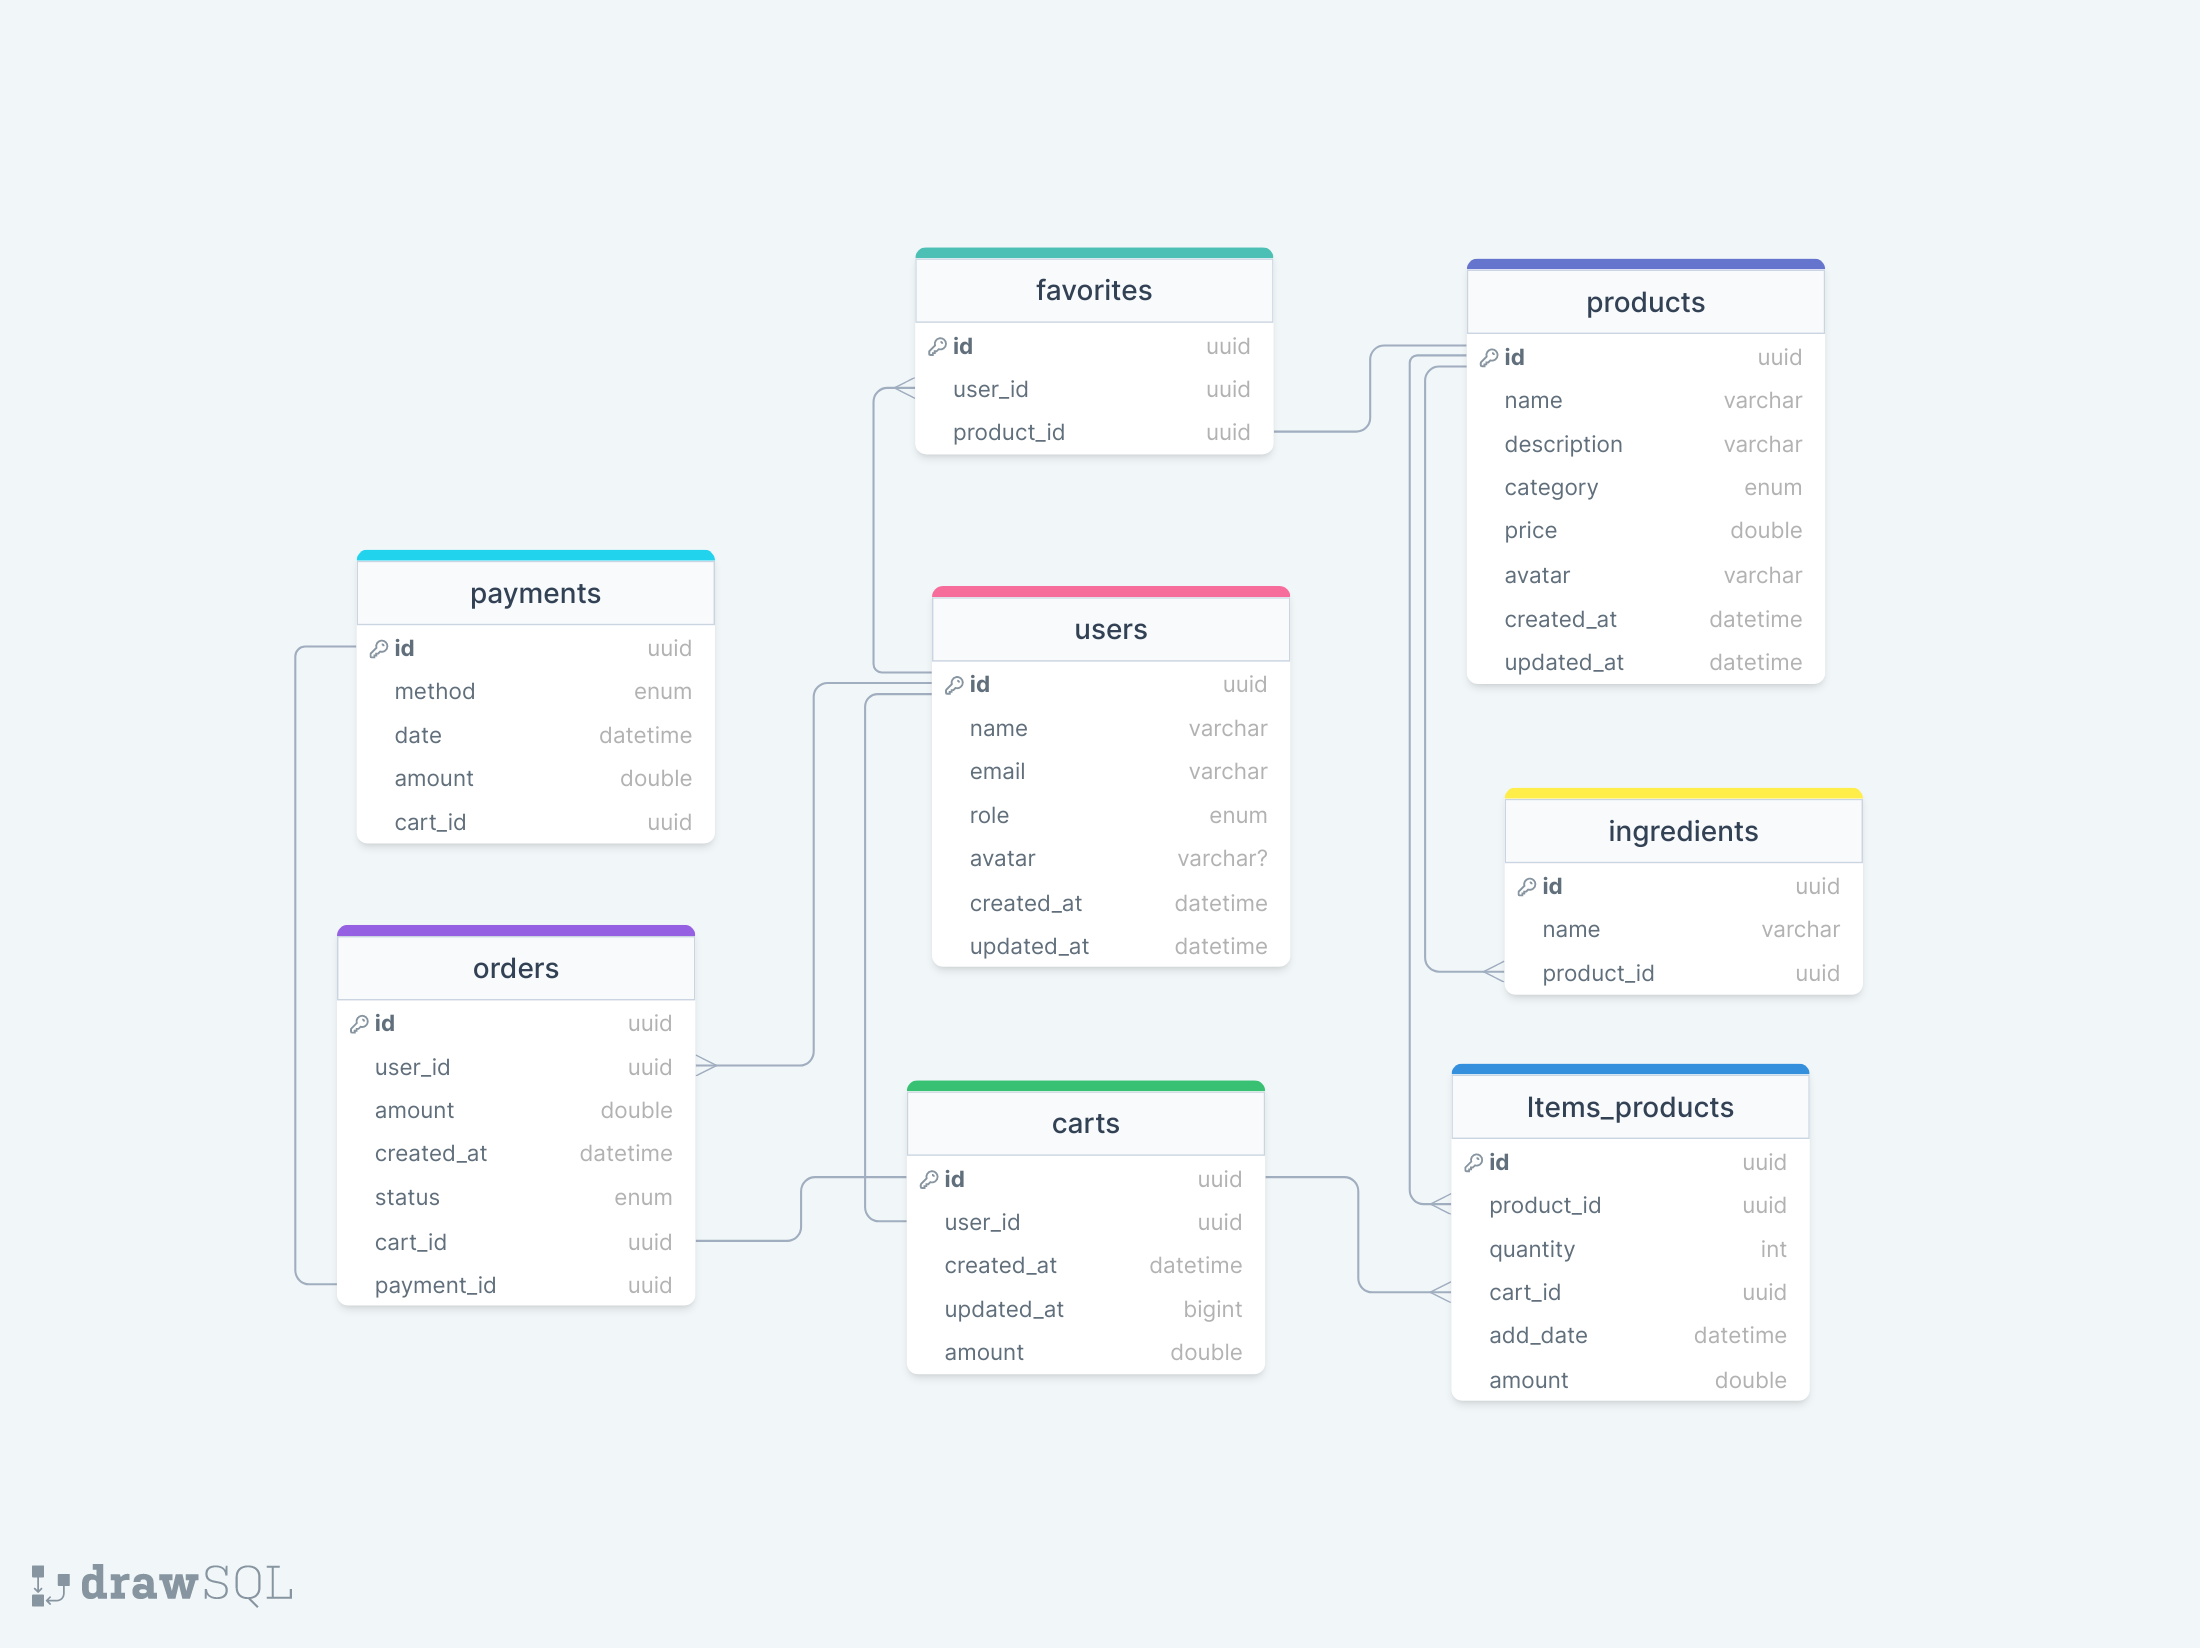
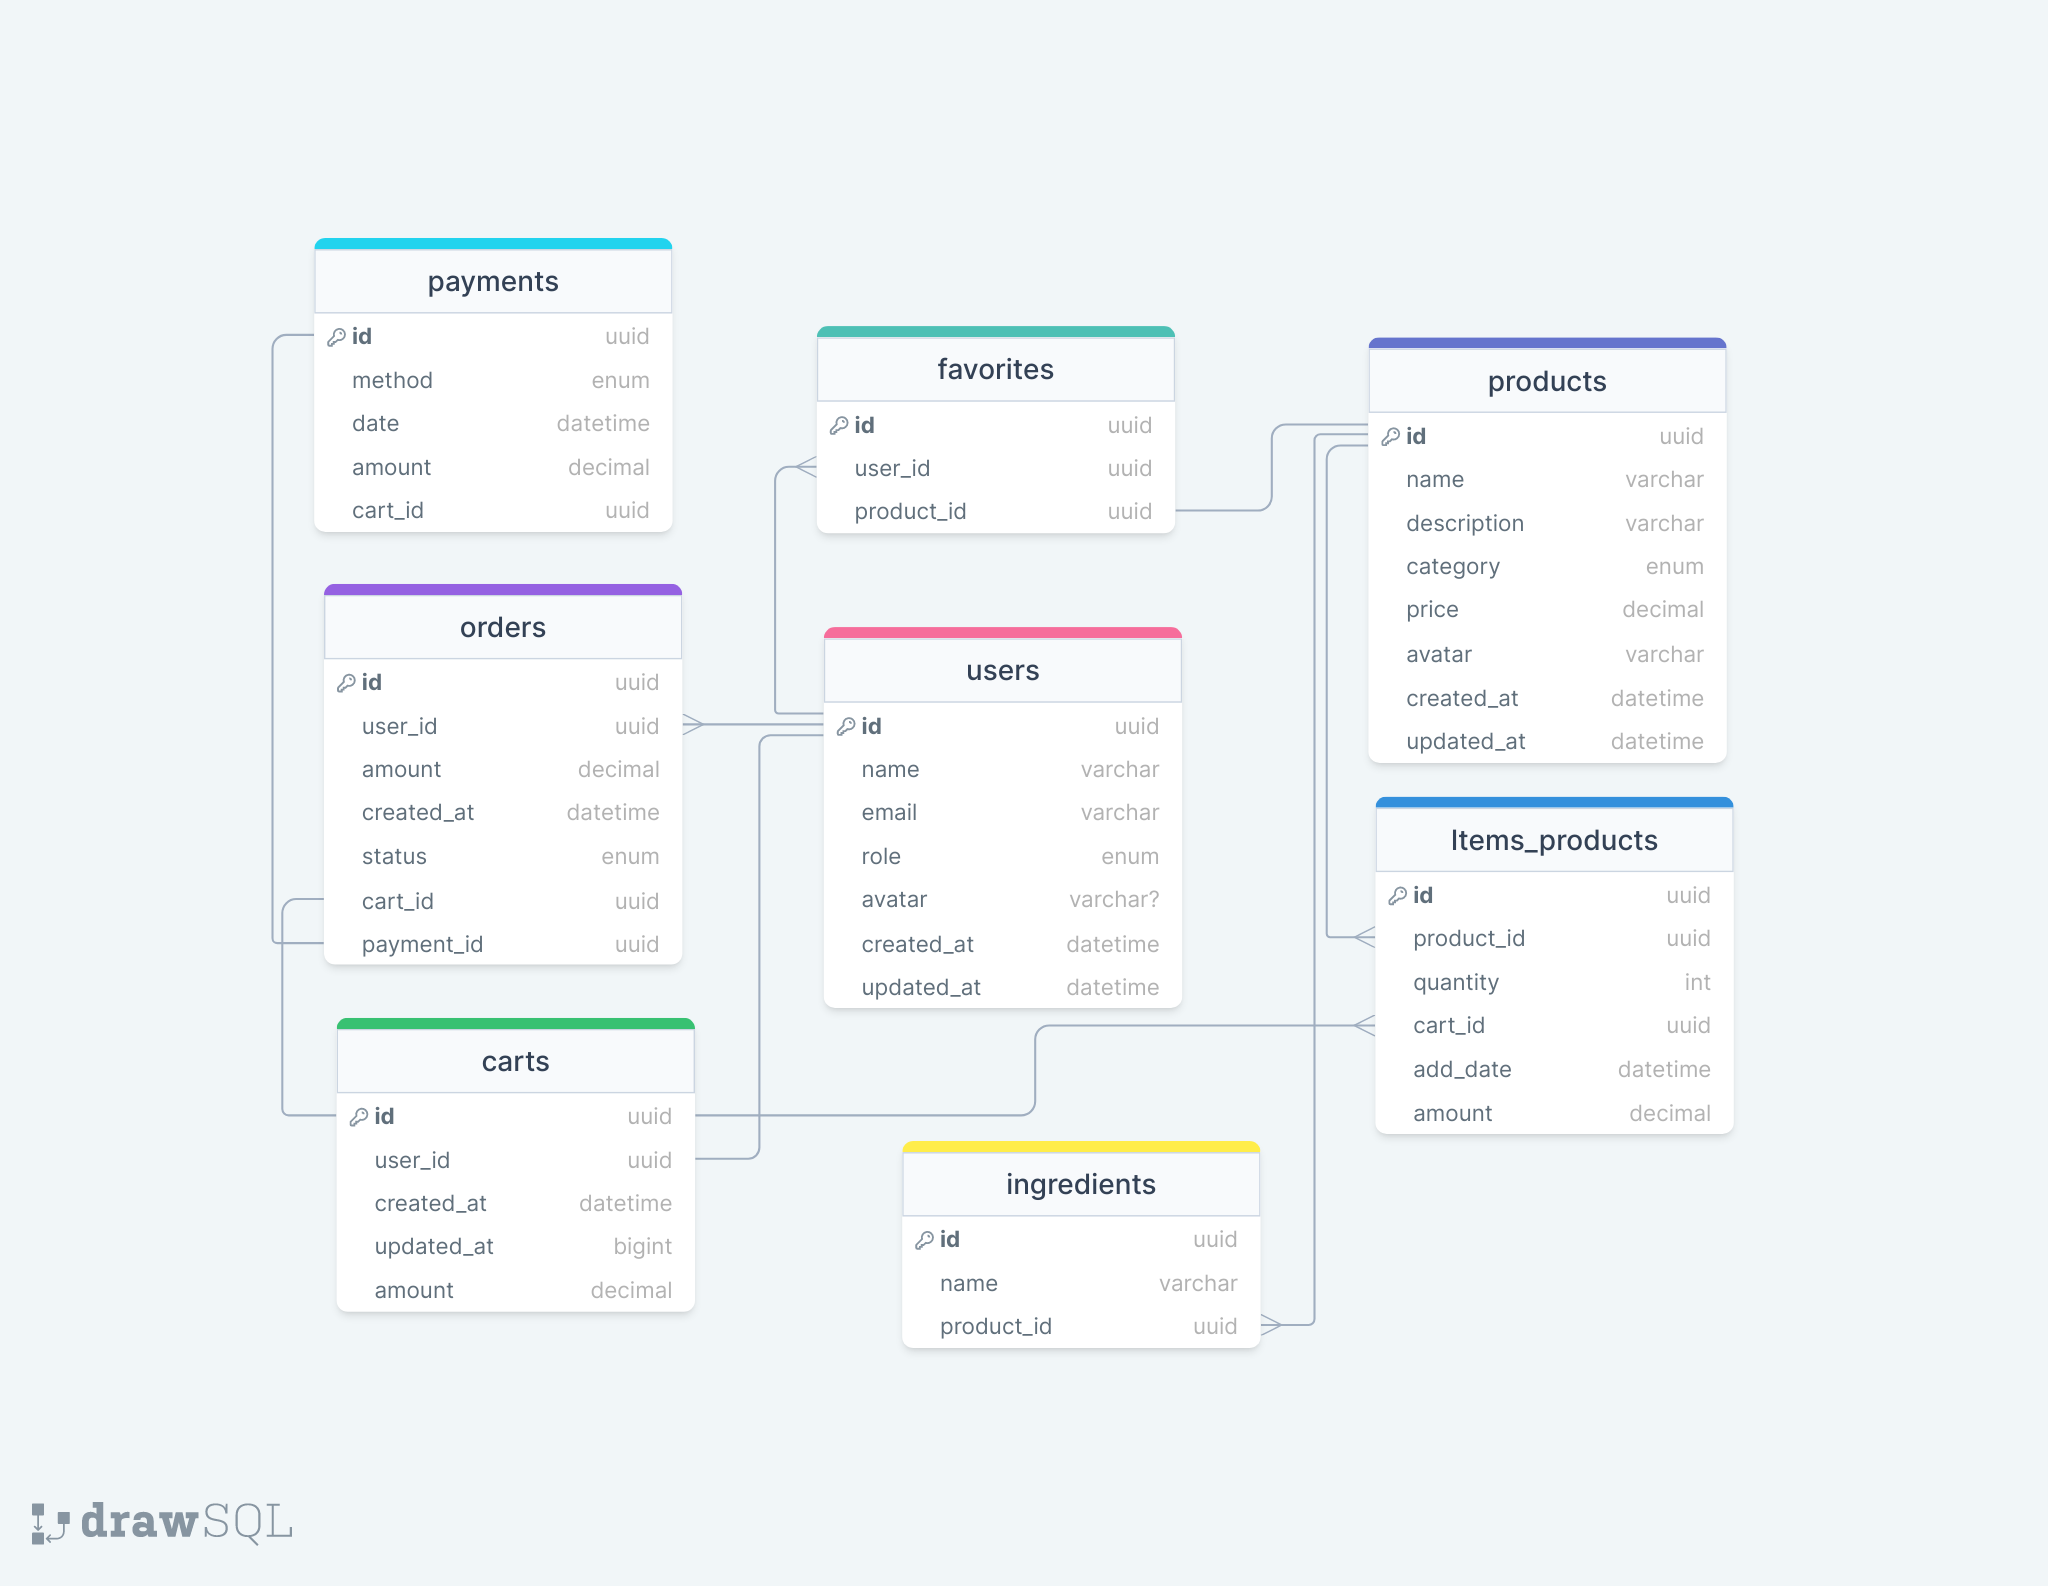
ajuste valores monetarios

diff --git a/api/app/src/database/migrations/20240207222335_createProducts.js b/api/app/src/database/migrations/20240207222335_createProducts.js
@@ -9,7 +9,7 @@ exports.up = function(knex) {
         table.text("description").notNullable()
         table.enum("category", ['brasileira','vegana','vegetariana', 'salada','japonesa','chinesa','mexicana','nordestina','hambúrguer',
         'pizza','massas','álcool','bebidas','refrigerantes','gourmet','almoço','italiana','tortas','salgados' ,'doces','grelhados','sanduíche','outros']).notNullable()
-        table.double("price").notNullable()
+        table.decimal("price").notNullable()
         table.text("avatar").notNullable()
         table.timestamp('created_at').defaultTo(knex.raw('CURRENT_TIMESTAMP(0)'))
         table.timestamp('updated_at').defaultTo(knex.raw('CURRENT_TIMESTAMP(0)'))

diff --git a/api/app/src/jest.config.ts b/api/app/src/jest.config.ts
@@ -1,0 +1,20 @@
+/**
+ * For a detailed explanation regarding each configuration property, visit:
+ * https://jestjs.io/docs/configuration
+ */
+import type {Config} from 'jest';
+
+const config: Config = {
+    // testes serão pausados com o primeiro erro detectado
+    bail: true, 
+    // busca testes a partir de src -qualquerpasta**/**qualquerarquivo.spec.js */
+    testMatch: [ // spec == test
+      "<rootDir>/dist/js/**/*.spec.js",
+    ],
+    // Indicates which provider should be used to instrument code for coverage
+    coverageProvider: "v8",
+    // Automatically clear mock calls, instances, contexts and results before every test
+    clearMocks: true,
+};
+
+export default config;

diff --git a/api/app/src/database/migrations/20240207222401_createCarts.js b/api/app/src/database/migrations/20240207222401_createCarts.js
@@ -6,7 +6,7 @@ exports.up = function(knex) {
     return knex.schema.createTable("carts", (table) => {
         table.uuid("id", { primaryKey: true });
         table.uuid("user_id").references('id').inTable('users').onDelete('CASCADE').notNullable
-        table.double("amount").defaultTo(0)
+        table.decimal("amount").defaultTo(0)
         table.timestamp('created_at').defaultTo(knex.raw('CURRENT_TIMESTAMP(0)'))
         table.timestamp('updated_at').defaultTo(knex.raw('CURRENT_TIMESTAMP(0)'))
     })

diff --git a/api/app/src/database/migrations/20240214132723_createPayments.js b/api/app/src/database/migrations/20240214132723_createPayments.js
@@ -6,7 +6,7 @@ exports.up = function (knex) {
   return knex.schema.createTable("payments", (table) => {
     table.uuid("id", { primaryKey: true });
     table.enum("method", ["Cartâo de Crédito", "Pix"]);
-    table.double("amount").notNullable();
+    table.decimal("amount").notNullable();
     table.uuid("cart_id").references("id").inTable("carts").notNullable();
     table.timestamp("date").defaultTo(knex.raw("CURRENT_TIMESTAMP(0)"));
   });

diff --git a/api/app/src/database/migrations/20240214132731_createOrders.js b/api/app/src/database/migrations/20240214132731_createOrders.js
@@ -23,7 +23,7 @@ exports.up = function (knex) {
       .inTable("carts")
       .onDelete("CASCADE")
       .notNullable();
-    table.double("amount").defaultTo(0);
+    table.decimal("amount").defaultTo(0);
     table.timestamp("created_at").defaultTo(knex.raw("CURRENT_TIMESTAMP(0)"));
     table
       .enum("status", ["Pedente", "Preparando", "Entregue"])

diff --git a/api/app/src/database/migrations/20240214123901_createItemsProducts.js b/api/app/src/database/migrations/20240214123901_createItemsProducts.js
@@ -17,7 +17,7 @@ exports.up = function (knex) {
       .inTable("carts")
       .onDelete("CASCADE")
       .notNullable();
-    table.double("amount").defaultTo(0);
+    table.decimal("amount").defaultTo(0);
     table.integer("quantity").notNullable();
     table.timestamp("add_date").defaultTo(knex.raw("CURRENT_TIMESTAMP(0)"));
   });
